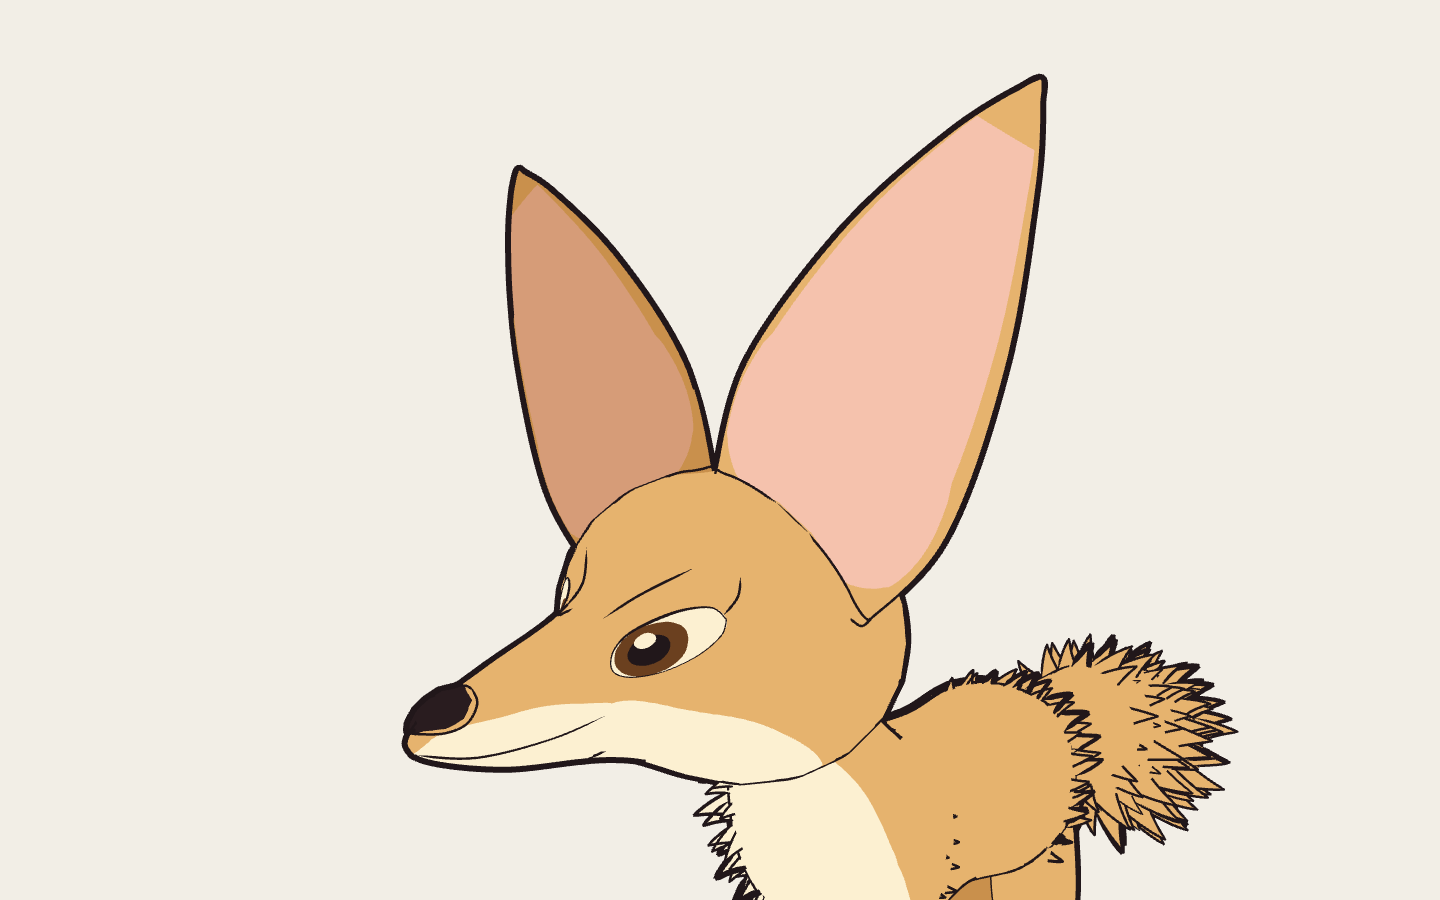
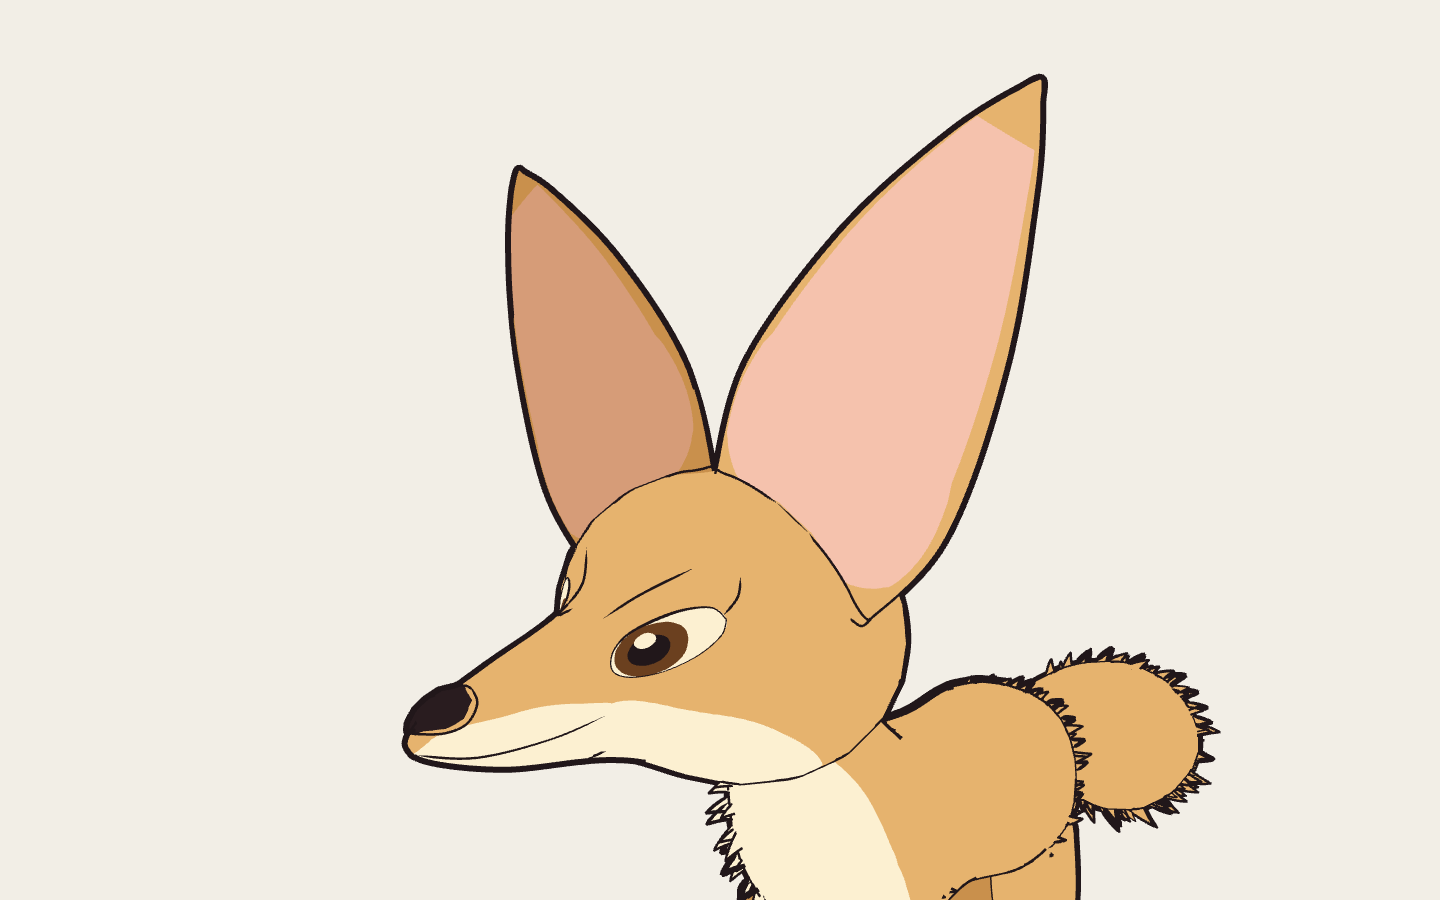
Foreshorten fur strokes and keep them behind the part's outline
A wedge now foreshortens as a tuft in 3D would, so a part reaches as far
past its edge from every angle. It sits back to the rim that makes the
part's outline in the way it runs, taking parts as balls along their
length, so no fur shows on a part's face from head on. A smoke test holds
the tail's reach across a full turn.

Changed region(s): [[0.6562, 0.6844, 0.875, 0.9644], [0.4688, 0.8711, 0.5312, 1.0]]

diff --git a/character/src/commonMain/kotlin/dev/chieppa/squash/character/build/FurView.kt b/character/src/commonMain/kotlin/dev/chieppa/squash/character/build/FurView.kt
@@ -103,14 +103,11 @@ private const val LEAST_SIZE = 0.08f
 /** How far every stroke leans outward from the surface, so its tip clears the silhouette. */
 private const val OUTWARD_LEAN = 0.3f
 
-/** How much further a grain running toward the viewer turns outward, so a stroke stays a stroke on a foreshortened part. */
-private const val FORESHORTENED_OUTWARD = 0.5f
-
 /** A stroke's length varies by this share either way, from its id, so a row does not read as a saw. */
 private const val LENGTH_SPREAD = 0.3f
 private const val SPREAD_STEPS = 64
 
-/** How far back a wedge sits, as a share of how far its root lies before the part's rim: at the rim's depth, so the surface inside the rim covers it and the part's outline shell, just past the rim, does not. */
+/** How far back a wedge sits, as a share of how far its root lies before the rim it clears: at the rim's depth, so the surface inside the rim covers it and the part's outline shell, just past the rim, does not. */
 private const val RIM_MARGIN = 1.05f
 
 /**
@@ -149,6 +146,11 @@ fun furView(fur: BodyFur, camera: FurCamera, checkCancelled: () -> Unit = {}): F
 private fun shownWedges(part: PartFur, camera: FurCamera, scale: Float, figure: Float, beforeRim: Float): List<FurWedge> {
     val rule = part.rule
     val spacing = rule.spacingPixels * camera.density * scale / figure
+    val rims = part.rims.mapNotNull { rim ->
+        val center = camera.toPixel(rim.center) ?: return@mapNotNull null
+        val perUnit = camera.pixelsPerUnitAt(rim.center) ?: return@mapNotNull null
+        SeenRim(rim, center, rim.radius * perUnit)
+    }
     return part.roots.mapNotNull { root ->
         val size = sizeWithRoom(root.room / spacing)
         if (size < LEAST_SIZE) return@mapNotNull null
@@ -157,8 +159,35 @@ private fun shownWedges(part: PartFur, camera: FurCamera, scale: Float, figure: 
         if (kotlin.math.abs(facing) >= rule.showNear) return@mapNotNull null
         val at = camera.toPixel(root.position) ?: return@mapNotNull null
         val drawnBack = smoothStep((kotlin.math.abs(facing) / rule.showNear - DRAW_BACK_FROM) / (1f - DRAW_BACK_FROM))
-        wedge(root, rule.lengthPixels * camera.density * scale * size * spreadOf(root.id), size, facing, drawnBack, toViewer, at, camera, beforeRim)
+        val out = camera.toPixel(root.position + (root.normal - toViewer * facing))?.let { Vec2(it.x - at.x, it.y - at.y) } ?: Vec2(0f, 0f)
+        val ownRim = -root.radius * facing
+        val rimDepth = outlineRim(rims, at, out)?.let { minOf((it.center - root.position) dot toViewer, ownRim) } ?: ownRim
+        wedge(root, rule.lengthPixels * camera.density * scale * size * spreadOf(root.id), size, drawnBack, toViewer, at, camera, beforeRim + rimDepth * RIM_MARGIN)
     }
+}
+
+/** A rim as a camera shows it: a circle of [radius] pixels at [center]. */
+private class SeenRim(val rim: FurRim, val center: Vec2, val radius: Float)
+
+/** Of [rims], the one a line from [at] heading along [out] leaves last: the one that makes the part's outline that way. */
+private fun outlineRim(rims: List<SeenRim>, at: Vec2, out: Vec2): FurRim? {
+    val length = kotlin.math.hypot(out.x, out.y)
+    if (length < MIN_LENGTH) return null
+    var furthest = Float.NEGATIVE_INFINITY
+    var outline: FurRim? = null
+    for (seen in rims) {
+        val x = seen.center.x - at.x
+        val y = seen.center.y - at.y
+        val ahead = (x * out.x + y * out.y) / length
+        val room = seen.radius * seen.radius - (x * x + y * y - ahead * ahead)
+        if (room < 0f) continue
+        val leaves = ahead + kotlin.math.sqrt(room)
+        if (leaves > furthest) {
+            furthest = leaves
+            outline = seen.rim
+        }
+    }
+    return outline
 }
 
 private fun smoothStep(share: Float): Float {
@@ -173,22 +202,22 @@ private fun spreadOf(id: MarkId): Float {
     return 1f + LENGTH_SPREAD * (2f * step / (SPREAD_STEPS - 1) - 1f)
 }
 
-/** The grain at [root] as the viewer sees it, turning outward from the surface as much as the grain runs toward the viewer. */
+/** The grain at [root] as the viewer sees it, foreshortened, leaning outward from the surface. How far it runs outward depends only on how far the root lies from the rim, so a stroke clears the edge alike from every side. */
 private fun seenDirection(root: FurRoot, toViewer: Vec3): Vec3 {
     val flat = root.direction - toViewer * (root.direction dot toViewer)
     val outward = root.normal - toViewer * (root.normal dot toViewer)
-    return flat + outward * (OUTWARD_LEAN + FORESHORTENED_OUTWARD * (1f - flat.length).coerceAtLeast(0f))
+    return flat + outward * OUTWARD_LEAN
 }
 
-private fun wedge(root: FurRoot, lengthPixels: Float, size: Float, facing: Float, drawnBack: Float, toViewer: Vec3, at: Vec2, camera: FurCamera, beforeRim: Float): FurWedge? {
+private fun wedge(root: FurRoot, lengthPixels: Float, size: Float, drawnBack: Float, toViewer: Vec3, at: Vec2, camera: FurCamera, back: Float): FurWedge? {
     val seen = seenDirection(root, toViewer)
     val crossing = seen cross toViewer
     if (crossing.length < MIN_LENGTH || lengthPixels <= 0f) return null
     val along = seen.normalized()
     val across = crossing.normalized()
-    val perUnit = camera.toPixel(root.position + across)?.let { pixelsBetween(it, at) }?.takeIf { it > 0f } ?: return null
-    val length = lengthPixels / perUnit
-    val behind = toViewer * (beforeRim - root.radius * facing * RIM_MARGIN)
+    val behind = toViewer * back
+    val perUnit = camera.toPixel(root.position + behind + across)?.let { pixelsBetween(it, at) }?.takeIf { it > 0f } ?: return null
+    val length = lengthPixels * seen.length / (1f + OUTWARD_LEAN) / perUnit
     val halfBase = across * (length * BASE_SHARE / 2f)
     val origin = root.position + behind - tuck(root, toViewer, halfBase) - behindRim(root, toViewer, along * length) * drawnBack
     val tip = origin + along * length

diff --git a/character/src/commonMain/kotlin/dev/chieppa/squash/character/build/BodyFur.kt b/character/src/commonMain/kotlin/dev/chieppa/squash/character/build/BodyFur.kt
@@ -9,6 +9,7 @@ import dev.chieppa.squash.document.MarkId
 import dev.chieppa.squash.document.MarkKind
 import dev.chieppa.squash.document.PartId
 import dev.chieppa.squash.document.SlotName
+import dev.chieppa.squash.geom.PartSurface
 import dev.chieppa.squash.geom.Vec3
 import dev.chieppa.squash.geom.positionAt
 
@@ -21,6 +22,19 @@ private const val ORDER_SHIFT = 15
 private fun orderOf(id: MarkId): Int {
     val mixed = id.value.hashCode() * ORDER_MIX
     return mixed xor (mixed ushr ORDER_SHIFT)
+}
+
+private const val RIMS_ALONG = 24
+private const val RIM_POINTS = 8
+
+/** Balls along each patch of [surface] that closes round: at each place, around the middle of its ring, as wide as the ring. */
+private fun rimsOf(surface: PartSurface): List<FurRim> = surface.patches.filter { it.closedV }.flatMap { patch ->
+    List(RIMS_ALONG + 1) { along ->
+        val u = along.toFloat() / RIMS_ALONG
+        val ring = List(RIM_POINTS) { patch.positionAt(u, it.toFloat() / RIM_POINTS) }
+        val center = ring.reduce { sum, point -> sum + point } * (1f / RIM_POINTS)
+        FurRim(surface.shown(center), ring.maxOf { (it - center).length })
+    }
 }
 
 /**
@@ -55,8 +69,11 @@ fun furInputs(character: Character, templates: TemplateLibrary): Map<PartId, Par
  */
 data class FurRoot(val id: MarkId, val position: Vec3, val normal: Vec3, val direction: Vec3, val slot: SlotName?, val radius: Float, val room: Float = Float.POSITIVE_INFINITY)
 
-/** A part's fur strokes and the rule they show by. */
-data class PartFur(val rule: FurRule, val roots: List<FurRoot>)
+/** A ball that stands in for one stretch of a part: from any camera the part's outline is the outline of its balls together. */
+data class FurRim(val center: Vec3, val radius: Float)
+
+/** A part's fur strokes, the rule they show by, and the [rims] that make its outline. */
+data class PartFur(val rule: FurRule, val roots: List<FurRoot>, val rims: List<FurRim> = emptyList())
 
 /** Every part's fur, camera aside, on a figure of [figureRadius] around [figureCenter]. */
 data class BodyFur(val parts: Map<PartId, PartFur>, val figureRadius: Float = 0f, val figureCenter: Vec3 = Vec3.ZERO)
@@ -79,7 +96,7 @@ fun bodyFur(inputs: Map<PartId, PartFurInput>, work: BodySurfaceWork, character:
                 val radius = (patch.positionAt(root.anchor.u, root.anchor.v) - patch.positionAt(root.anchor.u, root.anchor.v + HALF_WAY_ROUND)).length / 2f
                 FurRoot(mark.id, root.position, root.normal, direction, slotUnder(root.anchor, root.position, held, input.areas, patch.closedV), radius)
             }
-            if (roots.isEmpty()) null else id to PartFur(input.rule, withRoom(roots.sortedBy { orderOf(it.id) }))
+            if (roots.isEmpty()) null else id to PartFur(input.rule, withRoom(roots.sortedBy { orderOf(it.id) }), placed[id]?.surface?.let(::rimsOf).orEmpty())
         }.toMap(),
         character.box?.radius ?: 0f,
         character.box?.center ?: Vec3.ZERO,

diff --git a/app/src/test/kotlin/dev/chieppa/squash/screens/smoke/LineFlickerSmokeTest.kt b/app/src/test/kotlin/dev/chieppa/squash/screens/smoke/LineFlickerSmokeTest.kt
@@ -268,6 +268,34 @@ class LineFlickerSmokeTest {
         assertTrue(worstClearingRun <= MOST_TIP_RUN, "the tip of $worstClearing ran $worstClearingRun px past its root in a degree")
     }
 
+    /**
+     * How far past the edge the tail's strokes reach from each of a full turn of views, in pixels: of the strokes rooted close to the rim, the
+     * mean run outward from base to tip. Spikiness that depends on the angle shows as a wide gap between the views.
+     */
+    @Test
+    fun theTailReachesAsFarPastItsEdgeFromEveryAngle() {
+        val session = session()
+        val fur = assertNotNull(session.bodyFur.output.value)
+        val state = session.probeState()
+        val framed = framedCamera(state.character.parts.filter { it.id != null }, probeAzimuth(0f), TILE, TILE, MARGIN)
+        val target = framed.camera.target
+        val distance = (framed.camera.eye - target).length
+        val reaches = List(POP_VIEWS) { view ->
+            val camera = furCamera(cameraAt(target, distance, view * FULL_TURN / POP_VIEWS, 0f, 0), TILE, TILE, 1f)
+            val tail = assertNotNull(furView(fur, camera).parts[TAIL]).wedges.mapNotNull { wedge ->
+                val toViewer = camera.toViewerFrom(wedge.root)
+                val facing = wedge.normal dot toViewer
+                if (abs(facing) >= NEAR_THE_RIM) return@mapNotNull null
+                val base = (wedge.left.first() + wedge.right.first()) * 0.5f
+                ((wedge.tip - base) dot (wedge.normal - toViewer * facing).normalized()) * assertNotNull(camera.pixelsPerUnitAt(wedge.root))
+            }
+            if (tail.isEmpty()) 0f else tail.average().toFloat()
+        }
+        println("FURREACH by view: ${reaches.joinToString { "%.1f".format(it) }}")
+        val shown = reaches.filter { it > 0f }
+        assertTrue(shown.max() <= shown.min() * MOST_REACH_GAP, "the tail's strokes reach from ${shown.min()} to ${shown.max()} px by view")
+    }
+
     private fun pixelsBetween(a: dev.chieppa.squash.geom.Vec2, b: dev.chieppa.squash.geom.Vec2) = hypot(a.x - b.x, a.y - b.y)
 
     private fun lengthPixels(wedge: FurWedge, camera: FurCamera): Float {
@@ -288,6 +316,12 @@ class LineFlickerSmokeTest {
 
         /** The most a stroke's length may change in a degree of orbit, in pixels, against a rule of up to 40. */
         const val MOST_LENGTH_CHANGE = 1f
+
+        /** How closely a root faces away from the viewer to count as on the rim, as a cosine. */
+        const val NEAR_THE_RIM = 0.2f
+
+        /** How many times further the tail's strokes may reach past its edge from one view than from another. */
+        const val MOST_REACH_GAP = 1.5f
 
         /** The furthest the tip of a stroke clearing the rim may run past its root in a degree of orbit, in pixels. */
         const val MOST_TIP_RUN = 5f

diff --git a/docs/hld/look.md b/docs/hld/look.md
@@ -66,9 +66,9 @@ Fur is strokes drawn on the surface, shown where the area nears the silhouette. 
 An inked line along the grain reads as a loose hair against a thick silhouette, so a fur stroke is a tapered wedge filled in the slot under it, with ink on its edge, whose tip breaks the silhouette. A sawtooth drawn into an outline is swept round the part as a stack of ridges, which reads as tufts only side on and as a segmented body at three-quarter, so an outline carries a part's mass and its tufts are these strokes.
 
 - **Which strokes show.** A part's fur rule holds show near, spacing and length. Turning the camera never changes a stroke's size or which strokes have room: only zoom does. Each root has a room on the body, worked out once with the camera aside: the first root in an order seeded from its id has all of it, and each next is the one furthest from those taken, by that distance. A stroke shows when its room reaches the spacing at this zoom, starting small at 0.7 of the spacing and reaching full size at the spacing, its ink with it, so zooming in grows new strokes in between the others and strokes that show lie the spacing apart on the body. A stroke shows where its root faces toward or away from the viewer by under show near, as the cosine between normal and view, and the part's surface hides all of it but what clears the rim, so a tuft rises over the edge as the body turns and sets behind it at the same size. Over the last quarter of the band it draws back until its tip sits no further out than its root, so it comes and goes unseen.
-- **Its length.** Length and spacing are in pixels, like a line's weight, so a closer view keeps them. A view that spans under 280 pixels to a body unit at the figure's center shrinks both in proportion, so a tuft keeps its size against the part and the same strokes show in a small pane. Each stroke's length varies a little by its id, so a row does not read as a saw.
-- **Its shape.** A wedge runs along the grain as the viewer sees it, leaning outward from the surface, and further the more the grain runs toward the viewer, so it stays a stroke on a foreshortened part. It turns its width to the viewer, and the outer corner of its base sits at its root, with no blunt corner past the rim. Its edges bow slightly away from the surface. Its fill takes the tones of the slot under its root, read from the part's own brush strokes, regions, filled areas and base in that order, with the normal at its root, so a two-tone shadow carries onto it. Every pane fills it from the palette at that pane's shading, as the part under it. Its ink is one ribbon per part holding every edge, under the same rules as the figure's contour, so it stands in for the outline near the silhouette.
-- **Its depth.** A wedge sits back along its line of sight, just before the rim of the part it roots on, estimated from the part's radius at the root. So that part's surface covers all of it but what clears the rim, it covers both weights of the contour where it crosses, so its ink takes over from the line with no line across its root, and it still shows in front of whatever lies behind the part.
+- **Its length.** Length and spacing are in pixels, like a line's weight, so a closer view keeps them; a stroke shows its length where the grain runs across the view. A view that spans under 280 pixels to a body unit at the figure's center shrinks both in proportion, so a tuft keeps its size against the part and the same strokes show in a small pane. Each stroke's length varies a little by its id, so a row does not read as a saw.
+- **Its shape.** A wedge runs along the grain as the viewer sees it, foreshortened with its width as a tuft in 3D would be, leaning outward from the surface. How far it reaches past the edge depends only on the grain's lift and that lean, so a part reads equally spiky from every angle: looking along a tail, its tufts stand out as far as they do from the side, only shorter and straighter. It turns its width to the viewer, and the outer corner of its base sits at its root, with no blunt corner past the rim. Its edges bow slightly away from the surface. Its fill takes the tones of the slot under its root, read from the part's own brush strokes, regions, filled areas and base in that order, with the normal at its root, so a two-tone shadow carries onto it. Every pane fills it from the palette at that pane's shading, as the part under it. Its ink is one ribbon per part holding every edge, under the same rules as the figure's contour, so it stands in for the outline near the silhouette.
+- **Its depth.** A wedge sits back along its line of sight, just before the rim that makes the part's outline in the way it runs: the part is taken as balls along its length, and of those the wedge's root could cross, the one the line outward from the root leaves last, or the rim of its own ring where that lies further back. So that part's surface covers all of it but what clears the part's outline, from any angle, whichever ring it roots on, and no fur shows on the part's face. A wedge covers both weights of the contour where it crosses, so its ink takes over from the line with no line across its root, and it still shows in front of whatever lies behind the part.
 
 Face marks are painted on the head's surface, with versions drawn for a few head angles that switch, not blend, as the head turns. Each expression has its own set of angle versions. Each mark's 3D position comes from the body it sits on, never estimated from the drawings. Marks anchor to template coordinates (see [data-model.md](data-model.md), Surface anchor), so they survive refits and oversketches.
 
